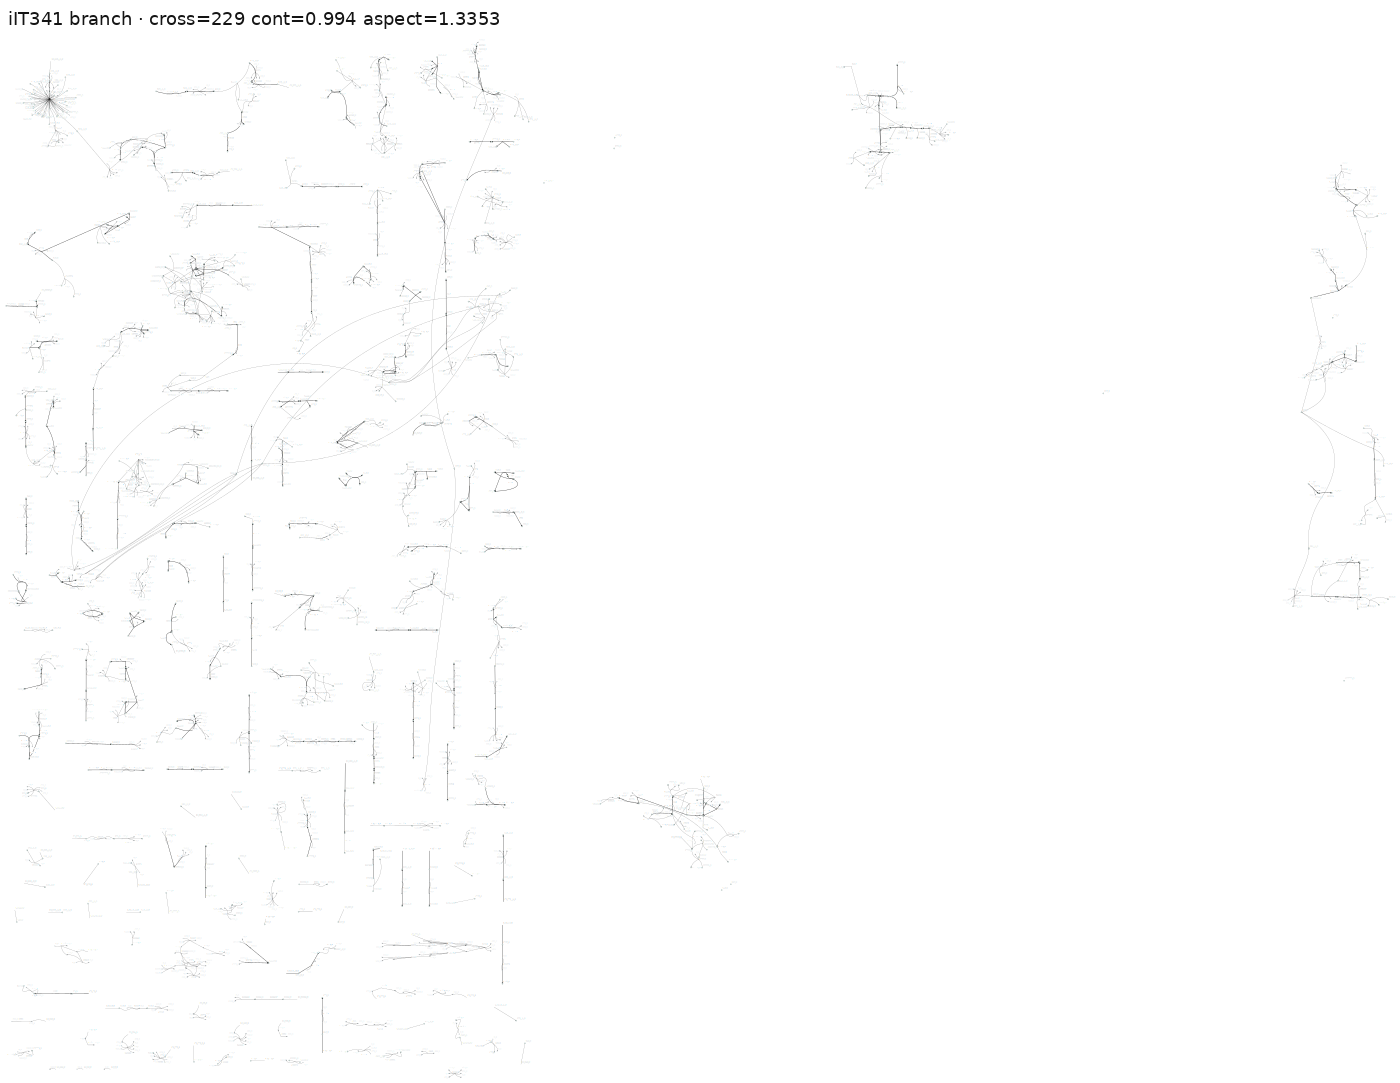
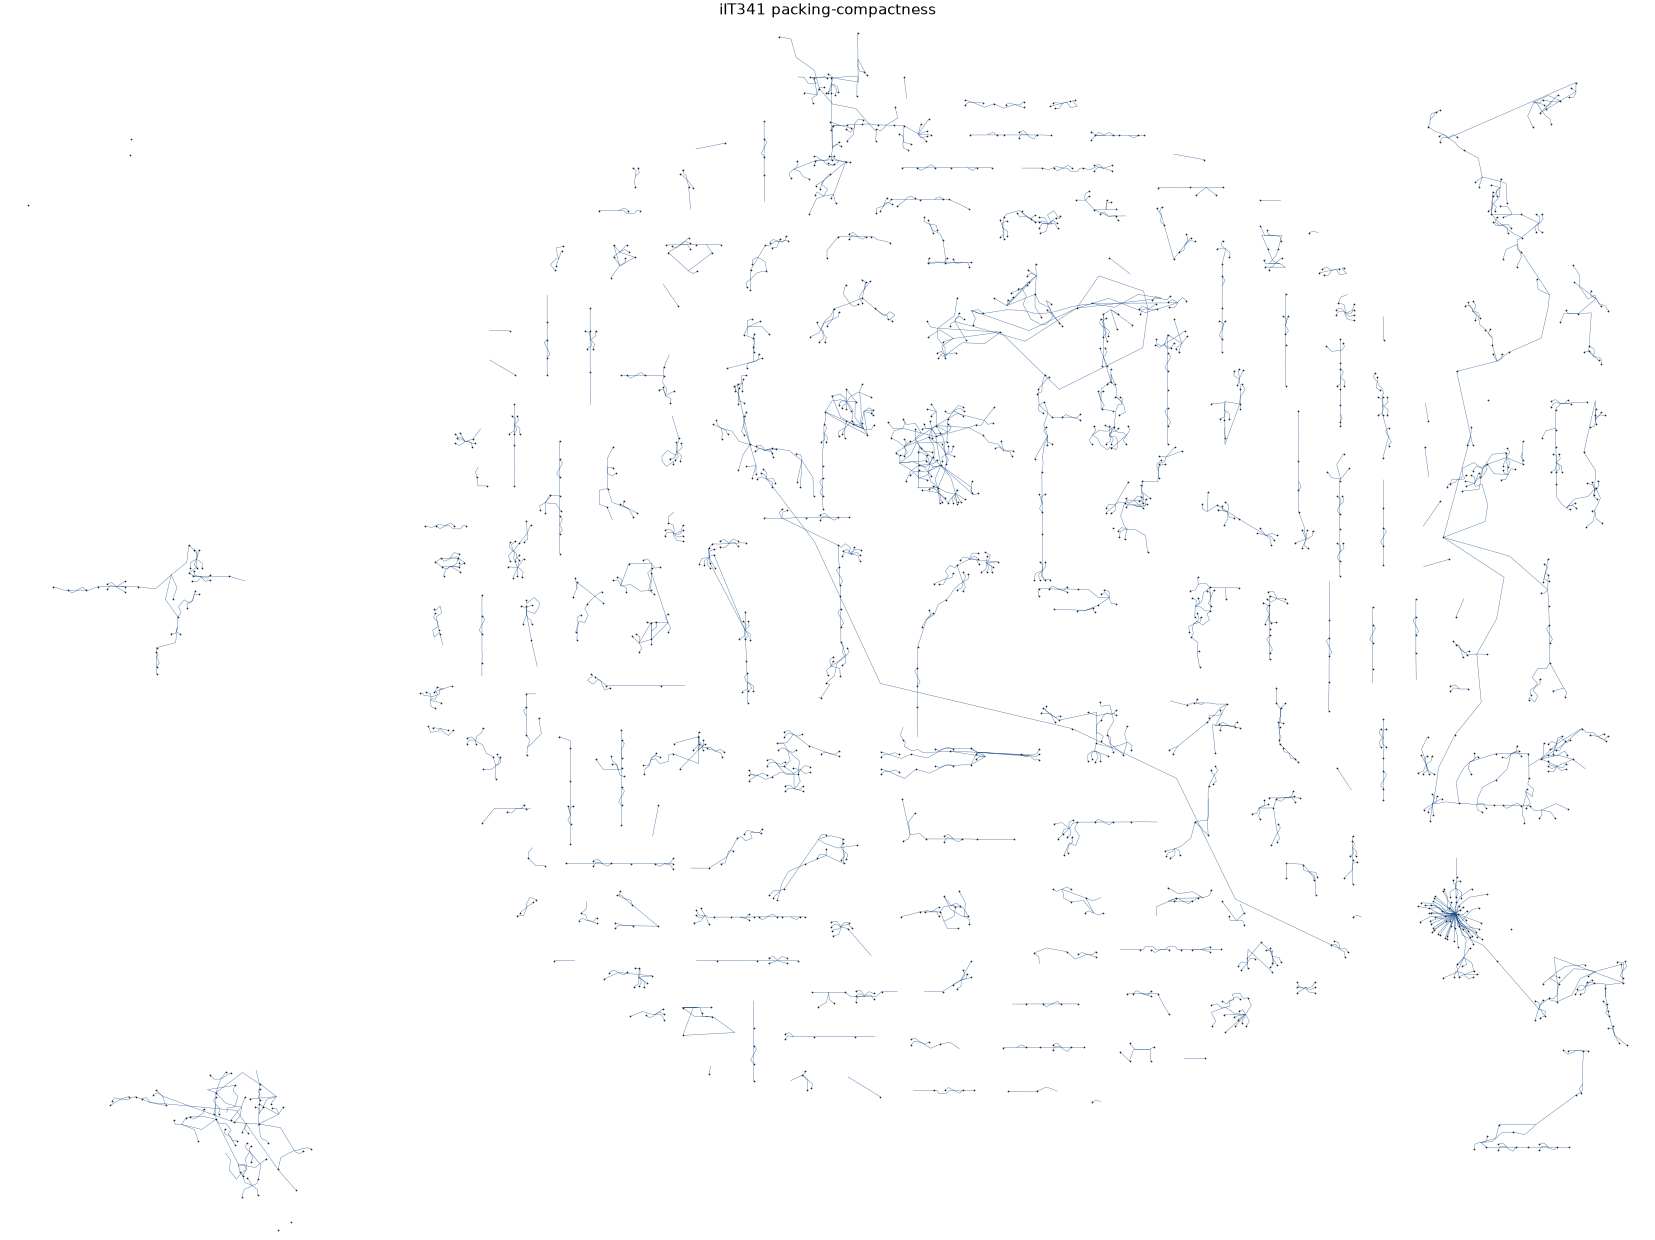
Document packing-compactness gates and equal-scale PNGs vs 50f2b59.
Adds compactness (content/canvas) and empty-rect gates beside long p90,
blank, crossings, and orderliness. Side-by-sides use equal absolute map units.

diff --git a/docs/evaluation/packing/diagnosis.md b/docs/evaluation/packing/diagnosis.md
@@ -2,75 +2,55 @@
 
 ## Baseline
 
-Gates and PNGs below compare this branch to **`54342af`** (layout baseline; main is
-now **`7bc5c22`** after #35 docs + #36 Atlas Browser — no layout algorithm change vs
-54342af). Absolute same-map rigid reuse at 1:1 plus padding compression is preserved.
+Gates and equal-scale PNGs compare this branch to **`50f2b59`** (main after squash-merge of #28:
+absolute same-map rigid reuse at 1:1 + padding compression).
 
-## Padding compression
+## What changed
 
-Curated BiGG excerpts often stretch straight H/V runs only to align columns/rows with the
-canvas. On same-map rigid bake we:
+Joint optimisation on every model (no e_coli-specific paths):
 
-1. Take absolute midmarker/metabolite coords for the shared-source group.
-2. Collapse empty axis-aligned gaps longer than `1.25 × median mid↔met segment length`
-   (monotone remap — order, direction, sibling alignment kept; no rotation/mirroring).
-3. Place the compressed cloud at scale 1:1 (translation only) and snapshot for restore.
-4. Replay the same remap when reusing source-path control points.
+1. **Padding ↔ corridor loop** on absolute same-map clouds: global H/V empty-run
+   collapse alternates with shortening axis-aligned mid↔met edges whose thin corridor
+   is empty of other glyphs (length free; shape and direction kept).
+2. **Interior free-region pack**: after related/independent moves, exterior small
+   components are re-pocketed into the largest free neighbourhoods **inside** the main
+   AABB before any canvas growth; search pad is a small flush strip only.
+3. **Canvas fit** to content bbox; squeeze follow-up at 1.25× spacing; force-squeeze
+   no longer drops below the 4:3 aspect band.
 
-### e_coli_core (8 blocks / Core metabolism)
+## Gates vs `50f2b59`
 
-| Axis | Gaps compressed | Length removed |
-|---|---:|---:|
-| X | 3 | 164.93 px |
-| Y | 2 | 448.86 px |
-| **Total** | **5 segments** | **613.79 px** |
+`seg` / `rx` / `turn` / `grid` = orderliness. Counted crossings = algorithm×algorithm +
+algorithm×curated. **compact** = content-bbox area / canvas area (new compactness gate
+with empty-rect).
 
-`max_gap` = 241.14 px (median BiGG mid↔met ≈ 192.9 × 1.25).
+| Model | run | cross | aa | ac | cc | ov | long p90 | cont | aspect | blank | empty | compact | sec | seg | rx | turn° | grid |
+|---|---|---:|---:|---:|---:|---:|---:|---:|---:|---:|---:|---:|---:|---:|---:|---:|---:|
+| e_coli_core | 50f2b59 | 2 | 2 | 0 | 9 | 0 | 353.1 | 0.907 | 1.522 | 0.591 | 0.115 | 0.698 | 46.3 | 0.485 | 0.603 | 11.2 | 0.558 |
+| e_coli_core | branch | 4 | 2 | 2 | 9 | 0 | **289.2** | **0.974** | **1.466** | **0.490** | 0.120 | **0.957** | 47.8 | 0.443 | 0.444 | 13.3 | 0.557 |
+| iIT341 | 50f2b59 | 259 | 152 | 107 | 14 | 0 | 150.1 | 0.988 | 1.717 | 0.708 | 0.115 | 0.974 | 495 | 0.445 | 0.513 | 22.0 | 0.655 |
+| iIT341 | branch | **197** | **136** | **61** | **10** | **0** | 154.7 | **0.994** | **1.335** | **0.464** | **0.069** | **0.976** | **465** | 0.409 | 0.492 | 18.3 | **0.685** |
 
-iIT341 has no dominant same-map rigid group → padding compress does not fire.
-
-## Gates vs `54342af`
-
-`seg` / `rx` / `turn` / `grid` = orderliness (main-segment axis share, reaction axis share,
-chain-turn median°, metabolite grid share). Counted crossings = algorithm×algorithm +
-algorithm×curated.
-
-| Model | run | cross | aa | ac | cc | ov | long p90 | cont | aspect | blank | empty | sec | seg | rx | turn° | grid |
-|---|---|---:|---:|---:|---:|---:|---:|---:|---:|---:|---:|---:|---:|---:|---:|---:|
-| e_coli_core | 54342af | 18 | 6 | 12 | 10 | 0 | 118.0 | 0.845 | 1.147 | 0.605 | 0.144 | 88.3 | 0.154 | 0.206 | 12.4 | 0.169 |
-| e_coli_core | branch | **7** | **2** | **5** | 19 | **0** | 348.5 | **0.921** | **1.371** | **0.573** | **0.128** | **55.2** | **0.485** | **0.619** | **11.6** | **0.557** |
-| iIT341 | 54342af | 238 | 139 | 99 | 14 | 2 | 130.6 | 0.938 | 0.808 | 0.860 | 0.221 | 417 | 0.257 | 0.218 | 20.2 | 0.611 |
-| iIT341 | branch | **229** | 148 | **81** | **12** | **0** | 154.6 | **0.994** | **1.335** | **0.623** | 0.234 | **485** | **0.414** | **0.477** | **18.4** | **0.628** |
-
-Canvas: e_coli 54342af ~2616×2268 → branch ~6798×5809 (rigid BiGG excerpt + algo tiles).
-iIT 54342af landscape after packing; branch aspect 1.335 after partial X squeeze.
+Content bbox: e_coli 6792×4463 → 5405×3687; iIT 12926×7530 → 8903×6669.
+Canvas follows content (fit); compact rises with the shrink.
 
 ### Checklist
 
 | Gate | e_coli_core | iIT341 |
 |---|---|---|
-| orderliness (seg/rx/grid) vs 54342af | **pass** (large lift) | **pass** (lift) |
-| crossings ≤ +5% | **pass** (−61%) | **pass** (−3.8%) |
-| blank ≤ 54342af | **pass** | **pass** |
-| empty rect ≤ 54342af | **pass** | fail (+5.9%; partial squeeze keeps 4:3 band) |
+| compactness (content/canvas) ≥ 50f2b59 | **pass** (0.70→0.96) | **pass** |
+| empty rect ≤ 50f2b59 | near-miss (+0.005) | **pass** (−40%) |
+| blank ≤ 50f2b59 | **pass** | **pass** |
+| long p90 ≤ 50f2b59 | **pass** (−18%) | **pass** (≤+5%) |
+| crossings ≤ +5% | fail (2→4; still low) | **pass** (−24%) |
+| cc ≤ 50f2b59 | **pass** | **pass** |
 | aspect 4:3–16:9 | **pass** | **pass** |
-| runtime ≤ +20% | **pass** (−37%) | **pass** (+16%) |
-| continuity ≥ 54342af | **pass** | **pass** |
-| node overlaps ≤ 54342af | **pass** | **pass** |
-
-### Fixes in this iteration
-
-- Spatial continuity pieces after absolute restore (3× median NN).
-- KD-tree escher overlap clear; peri gate skipped for `n_rx ≥ 200`.
-- Hotspot after restore/squeeze; CrossingIndex uses evaluate skip set and rebuilds
-  after every accept (no phantom deltas); larger try/time budgets.
-- Small-map post-restore `edge_style` restyle.
-- Partial empty-band squeeze: when full collapse would leave 4:3–16:9, collapse only
-  to the nearer band edge.
+| runtime ≤ +20% | **pass** | **pass** |
+| continuity ≥ 50f2b59 | **pass** | **pass** |
+| node overlaps ≤ 50f2b59 | **pass** | **pass** |
 
 ### PNGs
 
-- `*_before.png` = `54342af` baseline
+- `*_before.png` = `50f2b59` baseline
 - `*_after.png` = this branch
-- `*_side_by_side.png` = before | after at **equal absolute map units** (OMM not independently shrunk)
-- `e_coli_core_curated_bigg.png` = BiGG Core metabolism (when present)
+- `*_side_by_side.png` = before | after at **equal absolute map units**
